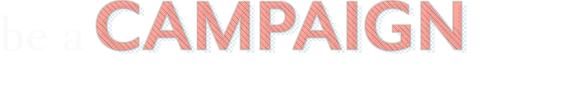
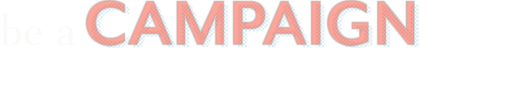
styling changes

diff --git a/cupcakes/static/styles/main.css b/cupcakes/static/styles/main.css
@@ -44,11 +44,11 @@ input#id_search { background: url(../images/bg_search.png) top left no-repeat; w
 
 input#tv_channel_other { display: none; margin-top: 15px; }
 
-div#feature { margin-top: 105px;}
+div#feature { margin-top: 100px;}
 div#pageMain { width: 960px; margin: 0 auto; padding: 40px 10px;}
 body.home div#pageMain { padding: 0;}
 
-#feature p { margin: 0 auto 25px; background: url(../images/feature_text.png) top center no-repeat; width: 573px; height: 109px; text-indent: -9999em; display: block; }
+#feature p { margin: 0 auto 25px; background: url(../images/feature_text.png) top center no-repeat; width: 514px; height: 97px; text-indent: -9999em; display: block; }
 #feature dl { text-indent: -9999em; display: block; width: 880px; height: 74px; background: url(../images/feature_list.png) top center no-repeat;}
 
 body.home div#ltColumn { background: url(../images/ltColumn_home.jpg) top left no-repeat; width: 470px; min-height: 254px; margin-top: -81px; padding: 40px 35px 0px; margin-right: 20px;}
